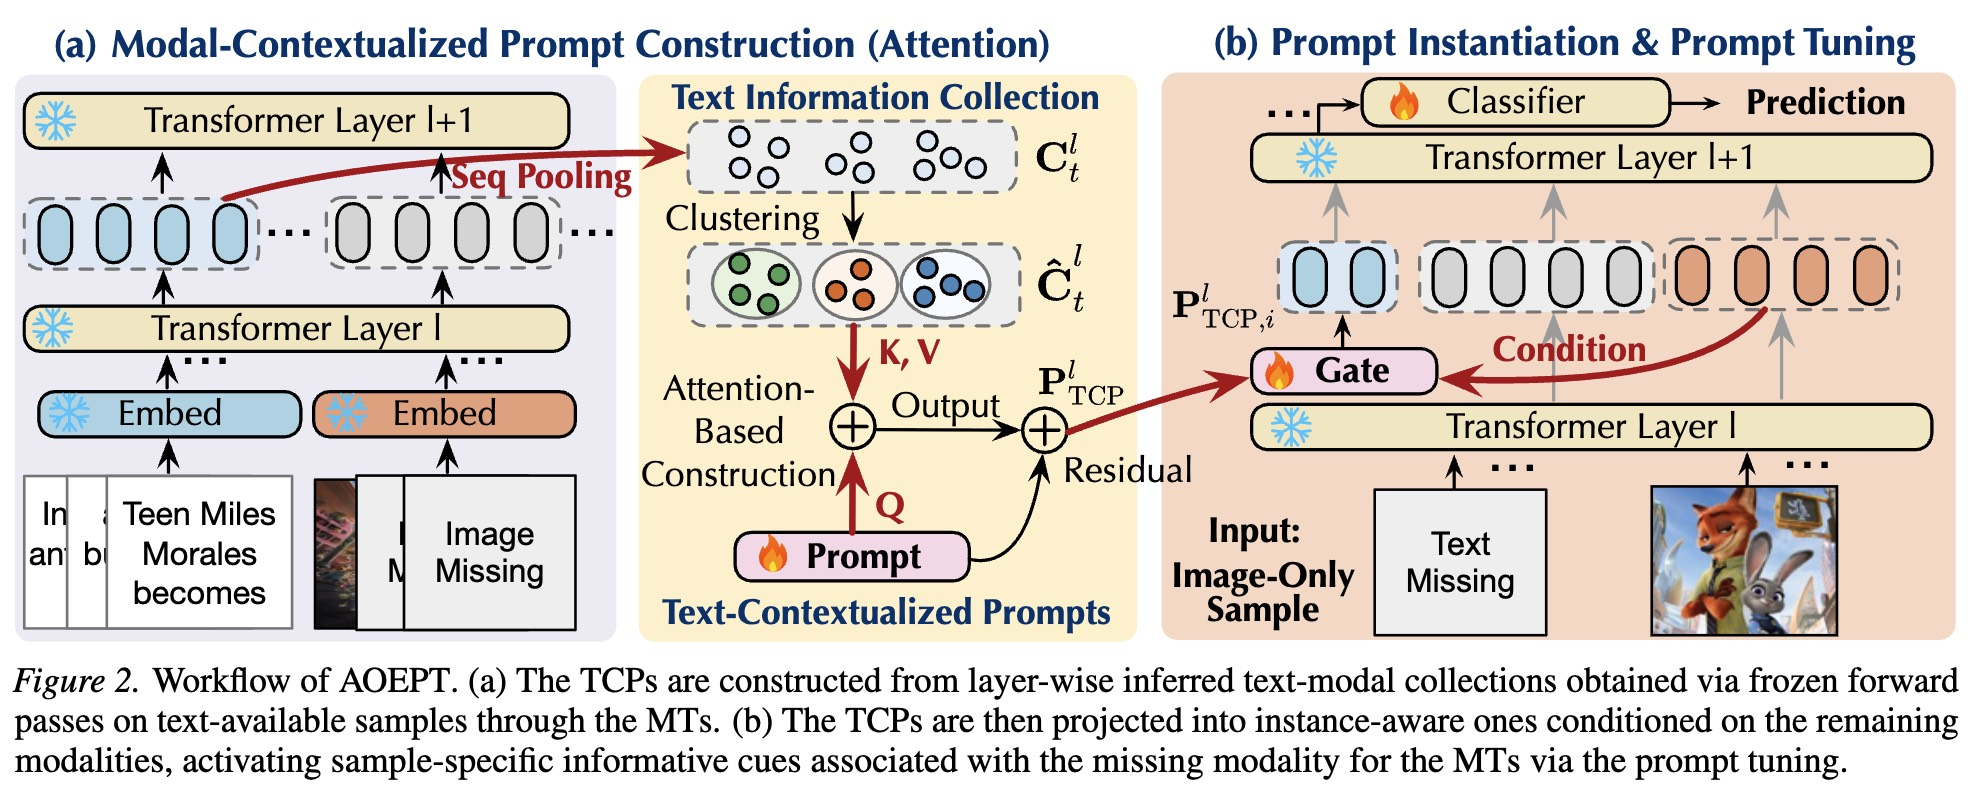
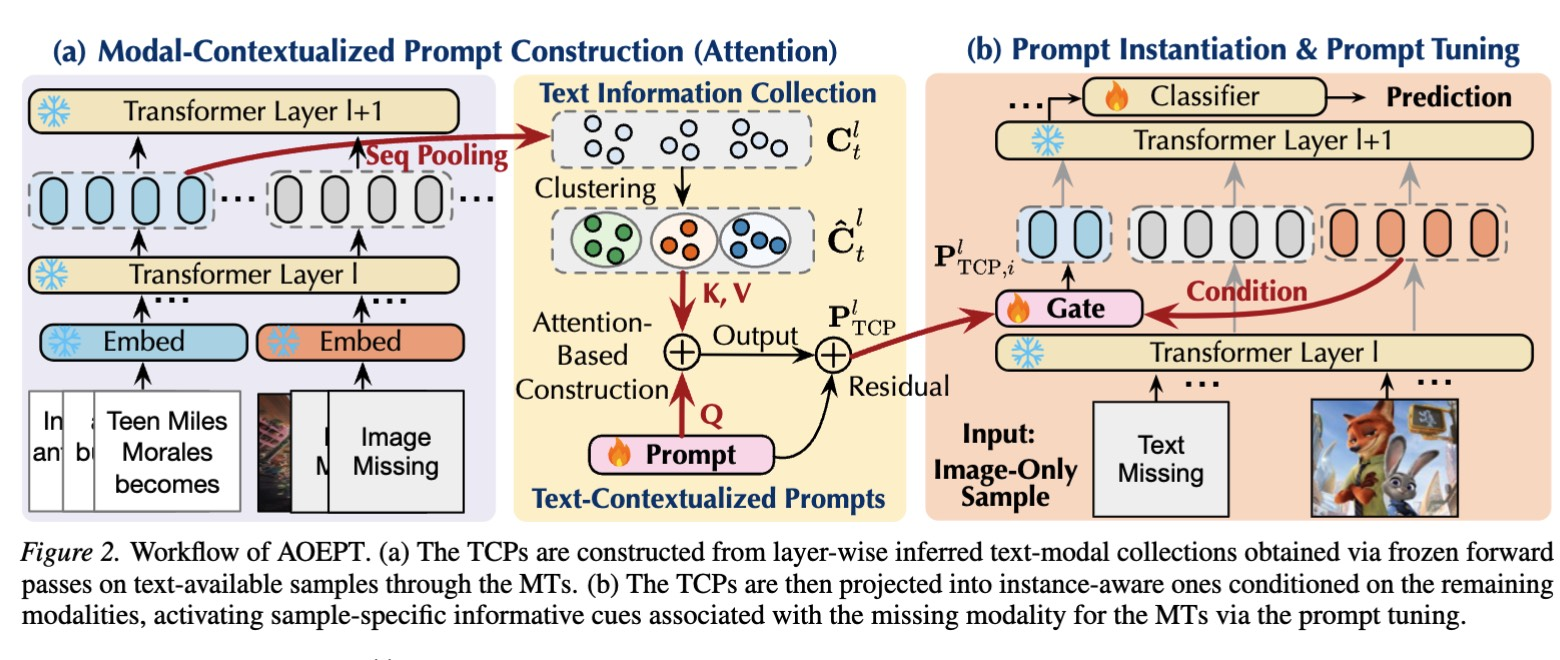
update publication for ICML 2026

diff --git a/_pages/about.md b/_pages/about.md
@@ -50,7 +50,7 @@ Feel free to contact me if you have any questions about my research or potential
 
 **ICML 2026** \| **CCF A** \| [**PDF**](/) \| [**Github**]() 
 
-- The **Implicit Modality-Reduction (IMR) bottleneck** in existing prompting for modality-missing methods: restricting multimodal transformers to a modality-reduced subspace, and cutting off latent information from the space of missing modalities.
+- The **Implicit Modality-Reduction (IMR) bottleneck** in existing prompting for modality-missing methods.
 - AOEPT, a novel **modal-contextualized prompting** method, breaks this bottleneck in a minimalist yet effective way.
 - A new metric, Normalized Missing-modality Mutual Information (NM2I) that can quantifies the severity of the IMR bottleneck.
 </div>
